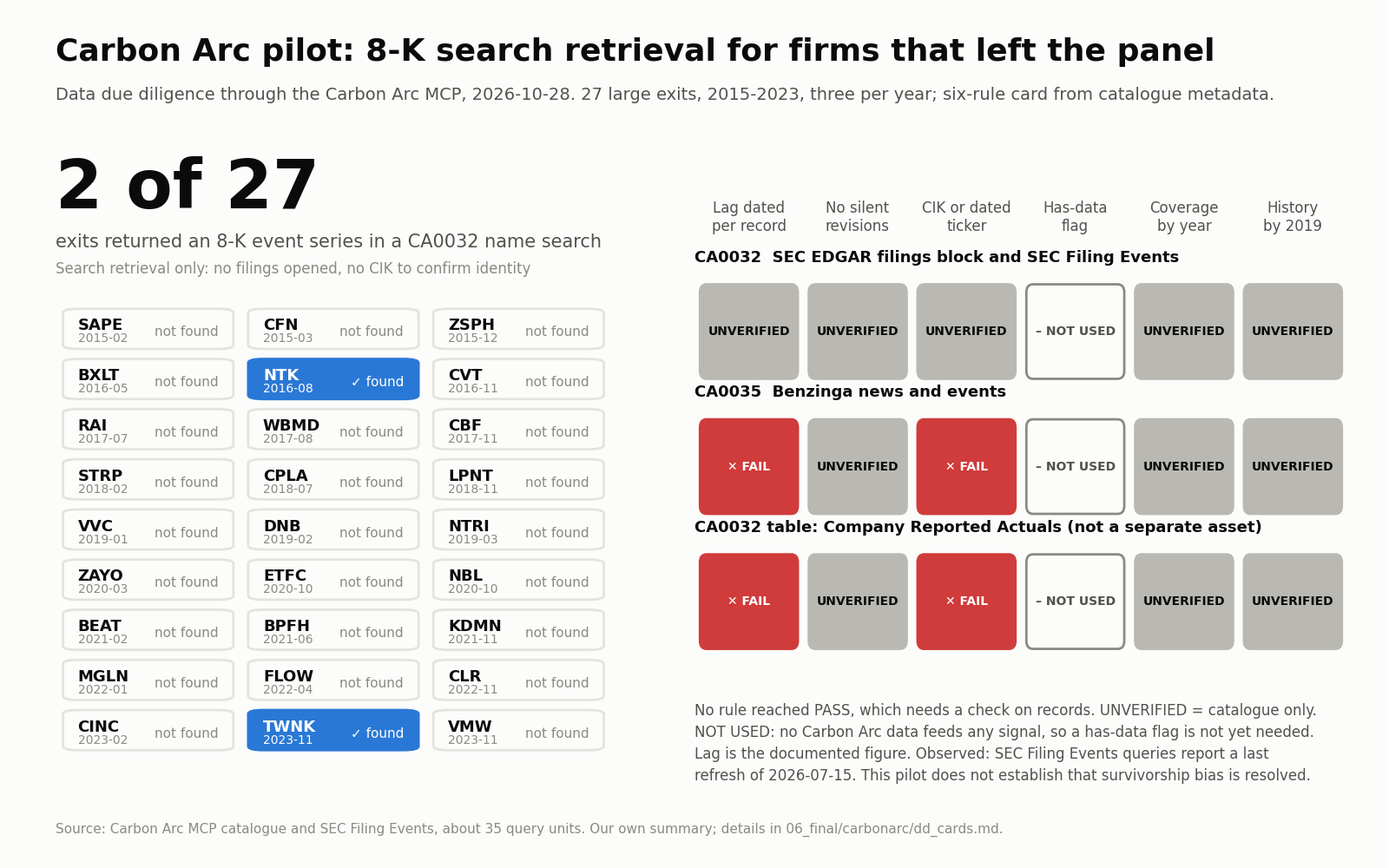
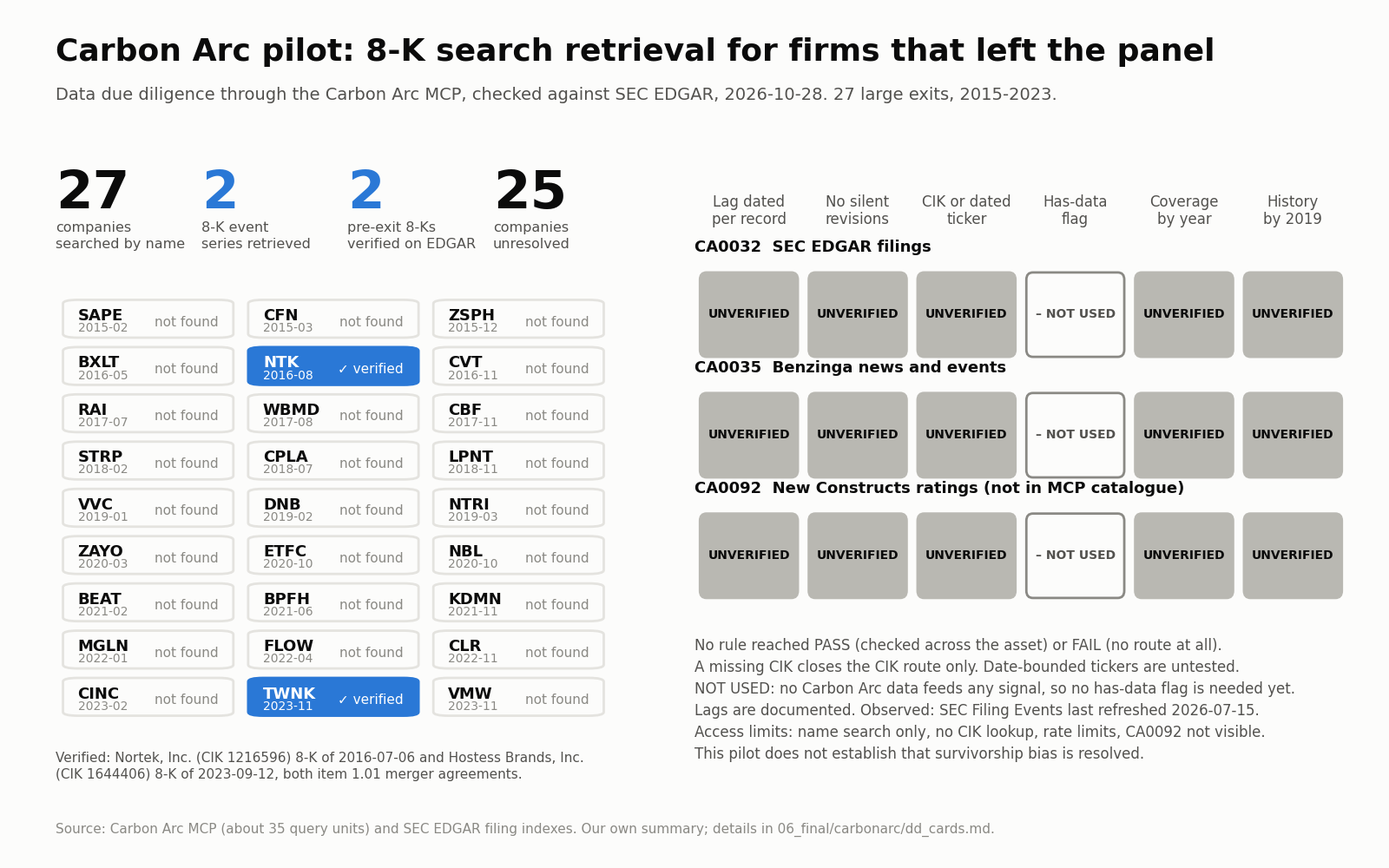
Verify the two Carbon Arc 8-K hits on EDGAR and add CA0092 to the cards
Both event series retrieved from CA0032 are now tied to a legal entity
on SEC EDGAR. Every Carbon Arc 8-K date falls on an EDGAR 8-K date of
Hostess Brands, Inc. (CIK 1644406, 107 of 107) or Nortek, Inc. (CIK
1216596, 131 of 131). Nortek's only gaps are six amendment-only dates.
One pre-exit 8-K per firm was opened. Both are item 1.01 merger
agreements: Hostess on 2023-09-12 with J. M. Smucker, and Nortek on
2016-07-06 with Melrose. Accessions, URLs and Carbon Arc provenance
are in dd_verified_filings.csv.

Summary counts: 27 searched, 2 series retrieved, 2 pre-exit filings
verified, 25 unresolved. The historical 13% stays as separate
background.

The six-rule card now covers three distinct recommended assets: CA0032,
CA0035 and CA0092 (New Constructs). CA0092 is not in the MCP catalogue,
so its ID and metadata are unconfirmed. Missing-CIK verdicts are now
UNVERIFIED: the CIK route is closed, but date-bounded ticker matching
is untested.

No Carbon Arc units spent this round. Seven public EDGAR requests, no
purchases.

diff --git a/06_final/carbonarc/dd_slide.py b/06_final/carbonarc/dd_slide.py
@@ -1,9 +1,9 @@
 """One slide for the Carbon Arc due-diligence pilot (dd_cards.md), as a 1600 x 1000 PNG.
 
-Left: the 27 large exits by exit month, marked by whether a name search of Carbon Arc's
-CA0032 returned an 8-K event series (search retrieval only). Right: the six-rule card for
-CA0032 (two tables) and CA0035. Values are typed in from dd_cards.md; nothing is queried
-here.
+Left: the 27 exited firms searched in Carbon Arc's CA0032 by name, the two event series
+retrieved, and the two pre-exit 8-Ks verified on SEC EDGAR. Right: the six-rule card for
+three distinct recommended assets (CA0032, CA0035, CA0092). Values are typed in from
+dd_cards.md and dd_verified_filings.csv; nothing is queried here.
 
     python 06_final/carbonarc/dd_slide.py
 """
@@ -17,9 +17,9 @@ from matplotlib.patches import FancyBboxPatch
 OUT = Path(__file__).with_name("dd_slide.png")
 
 SURFACE, INK, INK2, MUTED, GRID = "#fcfcfb", "#0b0b0b", "#52514e", "#8a8984", "#e4e3df"
-HIT, CRIT, UNK = "#2a78d6", "#d03b3b", "#b9b8b2"
+HIT, UNK = "#2a78d6", "#b9b8b2"
 
-EXITS = [  # (ticker, exit month, 8-K event series returned by name search)
+EXITS = [  # (ticker, exit month, event series retrieved and verified on EDGAR)
     ("SAPE", "2015-02", 0), ("CFN", "2015-03", 0), ("ZSPH", "2015-12", 0), ("BXLT", "2016-05", 0),
     ("NTK", "2016-08", 1), ("CVT", "2016-11", 0), ("RAI", "2017-07", 0), ("WBMD", "2017-08", 0),
     ("CBF", "2017-11", 0), ("STRP", "2018-02", 0), ("CPLA", "2018-07", 0), ("LPNT", "2018-11", 0),
@@ -28,19 +28,21 @@ EXITS = [  # (ticker, exit month, 8-K event series returned by name search)
     ("KDMN", "2021-11", 0), ("MGLN", "2022-01", 0), ("FLOW", "2022-04", 0), ("CLR", "2022-11", 0),
     ("CINC", "2023-02", 0), ("TWNK", "2023-11", 1), ("VMW", "2023-11", 0),
 ]
+FUNNEL = [("27", "companies\nsearched by name"), ("2", "8-K event\nseries retrieved"),
+          ("2", "pre-exit 8-Ks\nverified on EDGAR"), ("25", "companies\nunresolved")]
 
 RULES = ["Lag dated\nper record", "No silent\nrevisions", "CIK or dated\nticker", "Has-data\nflag",
          "Coverage\nby year", "History\nby 2019"]
-U, F, N = "UNVERIFIED", "FAIL", "NOT USED"
-ASSETS = [  # (name, verdict per rule); no rule reached PASS, which needs a check on records
-    ("CA0032  SEC EDGAR filings block and SEC Filing Events", [U, U, U, N, U, U]),
-    ("CA0035  Benzinga news and events", [F, U, F, N, U, U]),
-    ("CA0032 table: Company Reported Actuals (not a separate asset)", [F, U, F, N, U, U]),
+U, N = "UNVERIFIED", "NOT USED"
+ASSETS = [  # (name, verdict per rule); no rule reached PASS or FAIL
+    ("CA0032  SEC EDGAR filings", [U, U, U, N, U, U]),
+    ("CA0035  Benzinga news and events", [U, U, U, N, U, U]),
+    ("CA0092  New Constructs ratings (not in MCP catalogue)", [U, U, U, N, U, U]),
 ]
-FILL = {F: CRIT, U: UNK, N: SURFACE}
-EDGE = {F: CRIT, U: UNK, N: MUTED}
-TEXT = {F: "white", U: INK, N: INK2}
-LABEL = {F: "✕ FAIL", U: "UNVERIFIED", N: "– NOT USED"}
+FILL = {U: UNK, N: SURFACE}
+EDGE = {U: UNK, N: MUTED}
+TEXT = {U: INK, N: INK2}
+LABEL = {U: "UNVERIFIED", N: "– NOT USED"}
 
 
 def main():
@@ -49,34 +51,35 @@ def main():
 
     fig.text(0.04, 0.93, "Carbon Arc pilot: 8-K search retrieval for firms that left the panel",
              fontsize=26, weight="bold")
-    fig.text(0.04, 0.885, "Data due diligence through the Carbon Arc MCP, 2026-10-28. "
-             "27 large exits, 2015-2023, three per year; six-rule card from catalogue metadata.",
-             fontsize=14, color=INK2)
+    fig.text(0.04, 0.885, "Data due diligence through the Carbon Arc MCP, checked against SEC EDGAR, 2026-10-28. "
+             "27 large exits, 2015-2023.", fontsize=14, color=INK2)
 
-    # Left: hero number and the 27 exits
-    fig.text(0.04, 0.76, "2 of 27", fontsize=56, weight="bold")
-    fig.text(0.04, 0.715, "exits returned an 8-K event series in a CA0032 name search", fontsize=15, color=INK2)
-    fig.text(0.04, 0.685, "Search retrieval only: no filings opened, no CIK to confirm identity",
-             fontsize=12, color=MUTED)
+    # Left: funnel of counts
+    for k, (num, lab) in enumerate(FUNNEL):
+        x = 0.04 + k * 0.105
+        fig.text(x, 0.76, num, fontsize=44, weight="bold", color=HIT if k in (1, 2) else INK)
+        fig.text(x, 0.745, lab, fontsize=11.5, color=INK2, va="top", linespacing=1.3)
 
-    ax = fig.add_axes([0.04, 0.13, 0.40, 0.52], facecolor=SURFACE)
+    ax = fig.add_axes([0.04, 0.17, 0.40, 0.49], facecolor=SURFACE)
     n = len(EXITS)
     for i, (tic, month, hit) in enumerate(EXITS):
         col, row = i % 3, i // 3
         x, y = col * 1.0, -row * 1.0
         ax.add_patch(FancyBboxPatch((x + 0.04, y - 0.40), 0.92, 0.80, boxstyle="round,pad=0,rounding_size=0.08",
                                     facecolor=HIT if hit else SURFACE, edgecolor=HIT if hit else GRID, lw=2))
-        ink = "white" if hit else INK
-        ax.text(x + 0.12, y + 0.06, tic, fontsize=13, weight="bold", va="center", color=ink)
+        ax.text(x + 0.12, y + 0.06, tic, fontsize=13, weight="bold", va="center", color="white" if hit else INK)
         ax.text(x + 0.12, y - 0.20, month, fontsize=10, va="center", color="white" if hit else MUTED)
-        ax.text(x + 0.88, y - 0.07, "✓ found" if hit else "not found", fontsize=11, ha="right",
+        ax.text(x + 0.88, y - 0.07, "✓ verified" if hit else "not found", fontsize=11, ha="right",
                 va="center", color="white" if hit else MUTED)
     ax.set_xlim(0, 3)
     ax.set_ylim(-(n // 3) + 0.5, 0.5)
     ax.axis("off")
+    fig.text(0.04, 0.135, "Verified: Nortek, Inc. (CIK 1216596) 8-K of 2016-07-06 and Hostess Brands, Inc.\n"
+             "(CIK 1644406) 8-K of 2023-09-12, both item 1.01 merger agreements.",
+             fontsize=11, color=INK2, va="top", linespacing=1.4)
 
     # Right: six-rule card
-    ax2 = fig.add_axes([0.50, 0.24, 0.47, 0.56], facecolor=SURFACE)
+    ax2 = fig.add_axes([0.50, 0.30, 0.47, 0.50], facecolor=SURFACE)
     for j, rule in enumerate(RULES):
         ax2.text(j + 0.5, 3.15, rule, ha="center", va="bottom", fontsize=12, color=INK2)
     for i, (name, verdicts) in enumerate(ASSETS):
@@ -92,13 +95,15 @@ def main():
     ax2.axis("off")
 
     notes = [
-        "No rule reached PASS, which needs a check on records. UNVERIFIED = catalogue only.",
-        "NOT USED: no Carbon Arc data feeds any signal, so a has-data flag is not yet needed.",
-        "Lag is the documented figure. Observed: SEC Filing Events queries report a last",
-        "refresh of 2026-07-15. This pilot does not establish that survivorship bias is resolved.",
+        "No rule reached PASS (checked across the asset) or FAIL (no route at all).",
+        "A missing CIK closes the CIK route only. Date-bounded tickers are untested.",
+        "NOT USED: no Carbon Arc data feeds any signal, so no has-data flag is needed yet.",
+        "Lags are documented. Observed: SEC Filing Events last refreshed 2026-07-15.",
+        "Access limits: name search only, no CIK lookup, rate limits, CA0092 not visible.",
+        "This pilot does not establish that survivorship bias is resolved.",
     ]
-    fig.text(0.50, 0.19, "\n".join(notes), fontsize=12, color=INK2, va="top", linespacing=1.5)
-    fig.text(0.04, 0.04, "Source: Carbon Arc MCP catalogue and SEC Filing Events, about 35 query units. "
+    fig.text(0.50, 0.265, "\n".join(notes), fontsize=12, color=INK2, va="top", linespacing=1.5)
+    fig.text(0.04, 0.04, "Source: Carbon Arc MCP (about 35 query units) and SEC EDGAR filing indexes. "
              "Our own summary; details in 06_final/carbonarc/dd_cards.md.", fontsize=11, color=MUTED)
 
     fig.savefig(OUT, dpi=100, facecolor=SURFACE)

diff --git a/06_final/carbonarc/dd_cards.md b/06_final/carbonarc/dd_cards.md
@@ -8,48 +8,60 @@ Nothing here feeds the model.
 This file is our own summary. It contains no text copied from Carbon Arc, its catalogue
 or the filings behind it.
 
+## Summary
+
+| Step | Count |
+|---|---|
+| Companies searched in CA0032 by name | 27 |
+| 8-K event series retrieved | 2 (Nortek, Hostess Brands) |
+| Retrieved series with legal entity confirmed on SEC EDGAR | 2 |
+| Pre-exit 8-Ks verified as documents on EDGAR (accession and URL recorded) | 2 |
+| Pre-exit 8-K dates in the final 12 months matched to the EDGAR filing index | 21 (10 Nortek, 11 Hostess) |
+| Companies unresolved | 25 |
+
+This pilot does not establish that survivorship bias is resolved.
+
 ## Method
 
 - **Which asset is CA0032.** The MCP catalogue does not index assets by CA code. A lookup
-  of "CA0032" and "CA0035" returns unrelated tearsheets. We take CA0035 to be Benzinga
-  ("Financial News & Data"), as `f09_altdata.py` already does. We take CA0032 to be the SEC
-  EDGAR tearsheet ("Financial Filing Forms"). The 8-K query results name that tearsheet
-  as their data asset, which supports the mapping but does not prove it.
+  of "CA0032" or "CA0035" returns unrelated tearsheets. Our source for the codes is the
+  team's finals handoff note, which summarises the organisers' instructions: CA0032 is
+  EDGAR keyed by CIK from 2012, and CA0035 is Benzinga event tags from 2011 with a T+1 lag
+  and weekly delivery. We matched each code to a catalogue tearsheet on those attributes.
+  - "Financial Filing Forms" matches CA0032: provider SEC Edgar, CIK key, aggregated
+    history from 2012. The 8-K query results also name this tearsheet as their data asset.
+  - "Financial News & Data" matches CA0035: provider Benzinga, history from 2011, T+1,
+    weekly.
 - **Card 1 route.** The prompt's document question (`text_to_insight`) cannot answer it.
-  We sent the first three firms (Sapient, CareFusion, ZS Pharma) and got no answer. The
-  document archive holds 10-K and 10-Q text only, and for CareFusion it surfaced the
-  acquirer's (Cardinal Health) filings instead. We switched to the structured route. Some
-  companies have an "SEC Form 8-K Filing" event series under the "SEC Filing Events"
-  insight, and a framework query returns every event date in it. We searched the event
-  list for all 27 firms by name, cross-checked the company entity list, and pulled dates
-  where a series came back.
-- **Rate limits.** The event search allows about one call every two minutes. After the
-  first eight single-name searches, we searched the last 16 firms four names per query.
-  A control query with two known hits and two known misses returned both hits in its top
-  ten. That supports the batched searches, but a batched miss is weaker evidence than a
-  single-name miss.
-- **Cost.** About 35 units of the 3,000-unit cap: two framework queries at about 15 units
-  each. The failed document question cost nothing. Discovery calls are free. The day
-  started at 4,508 of 20,000 daily units used, from earlier work. The dollar balance was
-  not touched.
-- **Cards 2-4.** Catalogue metadata only: tearsheets and data dictionaries. We opened no
-  data rows for these cards apart from the 8-K event dates from card 1.
+  We sent the first three firms and got no answer. The document archive holds 10-K and
+  10-Q text only, and for CareFusion it surfaced the acquirer's (Cardinal Health) filings.
+  We switched to the structured route. Some companies have an "SEC Form 8-K Filing" event
+  series under the "SEC Filing Events" insight, and a framework query returns every event
+  date in it. We searched the event list for all 27 firms by name, cross-checked the
+  company entity list, and pulled dates where a series came back.
+- **Rate limits.** The event search allows about one call every two minutes. After eight
+  single-name searches, we searched the last 16 firms four names per query. A control
+  query with two known hits and two known misses returned both hits in its top ten. A
+  batched miss is still weaker evidence than a single-name miss.
+- **Verification on EDGAR.** For each retrieved series we downloaded the company's filing
+  index from SEC EDGAR, a free public source. We then matched Carbon Arc's event dates to
+  each candidate CIK's 8-K dates. We opened one pre-exit 8-K per company and recorded its
+  accession number and URL in `dd_verified_filings.csv`. We made seven requests to EDGAR
+  in all and bought nothing.
+- **Cost.** About 35 Carbon Arc units of the 3,000-unit cap, all from two framework queries
+  in the first round. This round used only free catalogue and search calls. The day
+  started at 4,508 of 20,000 daily units used, from earlier work.
+- **Cards 2-4.** Catalogue metadata only, plus the card 1 evidence for CA0032.
 
 ## Card 1: 8-K search retrieval for 27 exited firms
 
-**Search retrieval only: 2 of 27 firms returned an 8-K event series (Nortek, Hostess
-Brands).** This is not a verified coverage rate. For the two hits we did not open any
-filing. We also could not confirm the company identity, because the event rows carry no
-CIK. For the other 25, the miss means our name searches found no series. It does not
-show that Carbon Arc lacks their filings.
-
-| Exit month | Ticker | Company | Search result in CA0032 | 8-K events in final 12 months | Last 8-K event before exit month | M&A 8-K (items 1.01/2.01) |
+| Exit month | Ticker | Company | Search result in CA0032 | 8-K dates in final 12 months | Last 8-K before exit month | M&A 8-K (items 1.01/2.01) |
 |---|---|---|---|---|---|---|
 | 2015-02 | SAPE | Sapient | Not found | - | - | - |
 | 2015-03 | CFN | CareFusion | Not found | - | - | - |
 | 2015-12 | ZSPH | ZS Pharma | Not found | - | - | - |
 | 2016-05 | BXLT | Baxalta | Not found | - | - | - |
-| 2016-08 | NTK | Nortek | Series found (Carbon Arc company 66399); identity unverified | 10 | 2016-07-06 | Not available: no item codes |
+| 2016-08 | NTK | Nortek | Series found; verified as Nortek, Inc., CIK 1216596 | 10, all on EDGAR | 2016-07-06, verified | Yes: 2016-07-06, item 1.01, merger agreement with Melrose Industries |
 | 2016-11 | CVT | Cvent | Not found | - | - | - |
 | 2017-07 | RAI | Reynolds American | Not found | - | - | - |
 | 2017-08 | WBMD | WebMD Health | Not found | - | - | - |
@@ -70,31 +82,48 @@ show that Carbon Arc lacks their filings.
 | 2022-04 | FLOW | SPX Flow | Not found (batched search) | - | - | - |
 | 2022-11 | CLR | Continental Resources | Not found (batched search) | - | - | - |
 | 2023-02 | CINC | CinCor Pharma | Not found (batched search) | - | - | - |
-| 2023-11 | TWNK | Hostess Brands | Series found (Carbon Arc company 26594); identity unverified | 11 | 2023-09-12 | Not available: no item codes |
+| 2023-11 | TWNK | Hostess Brands | Series found; verified as Hostess Brands, Inc., CIK 1644406 | 11, all on EDGAR | 2023-09-12, verified | Yes: 2023-09-12, item 1.01, merger agreement with J. M. Smucker |
 | 2023-11 | VMW | VMware | Not found | - | - | - |
 
-What the search shows:
+### The two verified hits
 
-1. **Most exits did not resolve by name.** The company entity search found only Nortek,
-   Zayo and Hostess Brands. For Dun & Bradstreet it found only the 2020 relisted holding
-   company. Large names such as Reynolds American and VMware returned nothing.
-2. **The two hits return long event histories.** Nortek's event dates reach back to 2003.
-   Hostess has 9 to 21 events in every full year from 2016 to 2022. We did not check
-   these against EDGAR, so we cannot say the series are complete.
-3. **Two things the prompt asked for are missing from the event rows.** There are no
-   item codes, so a merger 8-K cannot be told apart from any other. There is no CIK, so
-   matches rest on Carbon Arc's company ID and name.
-4. **Some delisted firms do have series.** The event search also returned series for
-   Pharmacyclics, XO Group and InterDent, all no longer listed.
+| | Hostess Brands | Nortek |
+|---|---|---|
+| Legal entity on EDGAR | Hostess Brands, Inc., CIK 1644406, formerly Gores Holdings, Inc. | Nortek, Inc., CIK 1216596 |
+| Pre-exit 8-K opened | Filed 2023-09-12, accession 0001193125-23-233053 | Filed 2016-07-06, accession 0001047469-16-014186 |
+| What it reports | Item 1.01: merger agreement with J. M. Smucker | Item 1.01: merger agreement with Melrose Industries, plus items 5.02, 5.03, 7.01 and 9.01 |
+| Carbon Arc provenance | Company 26594, event series 7622, SEC Filing Events insight, Financial Filing Forms tearsheet, last refresh 2026-07-15 | Company 66399, event series 10677, same insight and tearsheet, last refresh 2026-07-15 |
+| Carbon Arc 8-K dates found on this CIK's EDGAR 8-K dates | 107 of 107 | 131 of 131 |
+| EDGAR 8-K dates missing from Carbon Arc | None | 6, all amendment-only (8-K/A) dates |
 
-The SEC EDGAR data dictionary documents CIK, filing date and form type on every row of
-the raw filings block. A bulk extract keyed by CIK, joined through our CIK-permno bridge,
-might recover filings that name search cannot. The MCP cannot test that, and it would be
-a separate purchase.
+What the verification shows:
+
+1. **The identities hold.** Every Carbon Arc 8-K date for the two hits falls on an EDGAR
+   8-K date of one CIK. Nortek has an older registrant, Nortek Holdings (CIK 72423), and
+   11 Carbon Arc dates from 2003-2004 also appear in its index. But all 131 dates appear
+   in CIK 1216596's index, so we assign the series to it.
+2. **Events are dates, not filings.** Carbon Arc keeps one event per filing date. Hostess
+   filed 110 8-Ks on 107 dates, and Nortek filed 152 8-Ks and 8-K/As on 137 dates. Counts
+   in the table above are distinct dates.
+3. **Item codes exist upstream but not in the MCP rows.** EDGAR's index carries item codes,
+   which identify both merger 8-Ks. The Carbon Arc event rows do not.
+
+### Unresolved cases and access limits
+
+- **25 companies are unresolved.** 23 returned no series in name search, Zayo has a company
+  entity with no filing events, and Dun & Bradstreet resolves only to its 2020 successor.
+  For these firms, a miss means our name searches found nothing. It does not show that
+  Carbon Arc lacks their filings.
+- **The MCP offers no CIK search.** Entities resolve by present-day name, and the event
+  rows expose no CIK. So there is no MCP route from a CIK we hold to Carbon Arc's records.
+- **Rate limits forced batched searches** for 16 of the 25 misses.
+- **The raw EDGAR block** documents CIK, filing date and form type on every row. A bulk
+  extract keyed by CIK might resolve the 25. The MCP cannot test that, and it would be a
+  purchase.
 
 **Background, not comparable with the pilot above.** In round one, 13% of later-exiting
 firms had any 8-K in the supplied file. The organisers' sheet lists 326 of 330 large exits
-as missing. Those figures measure the supplied file over a different set of firms with a
+as missing. Those figures measure the supplied file, over a different set of firms, with a
 different method.
 
 ## Cards 2-4: the six-rule card
@@ -105,53 +134,52 @@ date-bounded ticker; "not covered" distinguishable from "nothing happened"; cove
 
 How to read the verdicts:
 
-- **PASS** would mean we checked the rule on actual records. No rule reached PASS in this
-  pilot.
-- **FAIL** means the data dictionary itself shows the rule cannot be met, for example a
-  missing key or date column.
-- **UNVERIFIED** means only the catalogue speaks to the rule, or we did not inspect it.
-- **NOT USED** applies to rule 4 only. It means no Carbon Arc data feeds any signal, so
-  telling "no event" from "not covered" does not yet matter.
+- **PASS** would mean we checked the rule on records across the asset. None reached PASS.
+- **FAIL** would mean the evidence shows the rule cannot be met by any route. None reached
+  FAIL. A missing CIK, for example, closes the CIK route but leaves date-bounded ticker
+  matching open, so that is UNVERIFIED.
+- **UNVERIFIED** means only documentation speaks to the rule, or our record checks cover
+  too few firms to generalise.
+- **NOT USED** applies to rule 4 only. No Carbon Arc data feeds any signal, so telling "no
+  event" from "not covered" does not yet matter. The check: `06_final/run_all.sh` never
+  runs `f09_altdata.py`, and no module imports it. It is the only code that would read a
+  Carbon Arc asset. The handoff note also says never to trade a "has data" flag.
 
-The rule 4 check: `06_final/run_all.sh` never runs `f09_altdata.py`, and no module
-imports it. It is the only code that would read a Carbon Arc asset. So data availability
-is not used as a trading signal. Rule 4 must be re-checked before any of these assets
-feeds a feature.
+**Assets checked.** Three distinct assets from the organisers' recommended set, as named
+in the handoff note: CA0032, CA0035 and CA0092 (New Constructs ratings). CA0092 is the
+asset added this round. It is not in the MCP catalogue under any of five searches, by
+name, by content and by entity. So we could not confirm its ID or read its tearsheet, and
+its column rests only on the handoff note. The "Company Reported Actuals" table from last
+round is listed inside the CA0032 tearsheet, so it no longer counts as an asset here.
 
-**Assets checked.** The third column is not an independent asset. The "Company Reported
-Actuals" table (Carbon Arc topic 89) is listed inside the CA0032 SEC EDGAR tearsheet. It
-is also published on its own as the "Financial Reporting" tearsheet, and neither shows a
-CA asset ID. We treat it as another table of CA0032. So this pilot covers two assets:
-CA0032, with two of its tables, and CA0035.
-
-| Rule | CA0032 filings block and SEC Filing Events | CA0035 Benzinga news and events | CA0032 table: Company Reported Actuals |
+| Rule | CA0032 SEC EDGAR filings | CA0035 Benzinga news and events | CA0092 New Constructs ratings |
 |---|---|---|---|
-| 1. Lag | **UNVERIFIED.** Documented: a T+1 lag, and filing date plus EDGAR acceptance time on each row. Observed: the 8-K event rows we pulled carry one date each and no acceptance time. | **FAIL.** Documented: a T+1 lag, but the dictionary shows one date per record, so event and publication dates cannot be told apart. | **FAIL.** Documented: a T+90 lag on the "Financial Reporting" tearsheet. Records carry only the period start and end, with no filing date. |
-| 2. Vintage | **UNVERIFIED.** Documented: each fact is tied to a filing's accession number and date, with a flag for figures repeated in later filings. We opened no fact rows. | **UNVERIFIED.** The dictionary has no version or as-of column. We opened no rows. | **UNVERIFIED.** The dictionary has no version or as-of column. We opened no rows. |
-| 3. Ticker mapping | **UNVERIFIED.** Documented: CIK on every row, plus a current-only ticker. Observed: the MCP event rows expose neither, so our matches used Carbon Arc company IDs. | **FAIL.** The dictionary shows Carbon Arc ticker and company IDs plus a Bloomberg ticker, with no CIK and no date bounds. | **FAIL.** The dictionary shows the same keys as Benzinga, with no CIK. |
-| 4. Has-data flag | **NOT USED.** No coverage field is documented. Not a failure, because no signal reads this data. | **NOT USED.** Same as CA0032. | **NOT USED.** Same as CA0032. |
-| 5. Coverage by year | **UNVERIFIED.** Catalogue totals only: about 17,000 filers, 7,500 tickers and 500,000 filings. | **UNVERIFIED.** Catalogue totals only: about 3,000 stocks. | **UNVERIFIED.** Catalogue totals only: 850 companies. |
-| 6. Real start date | **UNVERIFIED.** Catalogue: 2009 for the filings block. Observed: event dates back to 2003, for two companies only. No row counts, and no filings opened. | **UNVERIFIED.** Catalogue: 2011. | **UNVERIFIED.** Catalogue: 2008. |
+| 1. Lag | **UNVERIFIED.** Documented: T+1, with filing date and EDGAR acceptance time on each row. Observed: for two firms, every 8-K event date equals an EDGAR filing date. The rows carry no acceptance time and no event date. | **UNVERIFIED.** Documented: T+1, but one date per record, so per-record publication dating is unavailable. A fixed T+1 lag would have to be assumed and tested. | **UNVERIFIED.** Handoff note only: T+2. No tearsheet found. |
+| 2. Vintage | **UNVERIFIED.** Documented: facts are tied to a filing's accession number and date, with a flag for repeated figures. We opened no fact rows. | **UNVERIFIED.** The dictionary has no version or as-of column. No rows opened. | **UNVERIFIED.** No documentation reachable. |
+| 3. Ticker mapping | **UNVERIFIED.** Documented: CIK on every raw row. Observed: the MCP event rows expose no CIK. We confirmed CIKs for two firms ourselves through EDGAR. | **UNVERIFIED.** No CIK, so the CIK route is unavailable. The dictionary shows a current Bloomberg ticker with no date bounds. Matching would need our own date-bounded ticker map, which we have not tested. | **UNVERIFIED.** No documentation reachable. |
+| 4. Has-data flag | **NOT USED.** No coverage field documented. Not a failure, because no signal reads this data. | **NOT USED.** Same reason. | **NOT USED.** Same reason. |
+| 5. Coverage by year | **UNVERIFIED.** Catalogue totals only: about 17,000 filers, 7,500 tickers and 500,000 filings. Exited firms: 2 of 27 series retrieved by name. | **UNVERIFIED.** Catalogue totals only: about 3,000 stocks. | **UNVERIFIED.** No documentation reachable. |
+| 6. Real start date | **UNVERIFIED.** Catalogue: 2009 for the filings block, 2012 aggregated. Observed: Nortek's events from 2003 all match EDGAR, but that is one firm, not a row count. | **UNVERIFIED.** Catalogue: 2011. | **UNVERIFIED.** Handoff note only: 2016. |
 
-**Documented lag and observed freshness are different things.** The one-day lag above is
-what the catalogue declares. What we observed: the two framework queries on the SEC Filing
+**Documented lag and observed freshness are different things.** The lags above are what
+the documentation declares. What we observed: the two framework queries on the SEC Filing
 Events insight, for Nortek and Hostess, each reported a last data refresh of 2026-07-15.
-The SEC EDGAR tearsheet shows the same date. That date applies to that insight and
-tearsheet as served by the MCP. We did not check freshness for Benzinga, for the Company
-Reported Actuals table, or for the raw filings block.
+The Financial Filing Forms tearsheet shows the same date. That date applies to that
+insight and tearsheet as served by the MCP. We did not check freshness for Benzinga, for
+New Constructs, or for the raw filings block.
 
-**Carbon Arc's own load dates are not point-in-time.** The dictionary's sample values
-show the EDGAR block loaded in one full backfill on 2026-10-13. Carbon Arc's receipt date
-therefore cannot date first availability. The EDGAR filing date would have to serve that
-purpose, and we have not verified it on rows.
+**Carbon Arc's own load dates are not point-in-time.** The dictionary's sample values show
+the EDGAR block loaded in one full backfill on 2026-10-13, so Carbon Arc's receipt date
+cannot date first availability. For the two verified firms the event date equals the
+EDGAR filing date, which can serve that purpose.
 
 ## What we did and did not act on
 
 - **No change to the model or the 8-K features.** This pilot does not establish that
   survivorship bias is resolved. The bias stays documented as a limitation.
-- **No asset is cleared for new features.** Nothing reached PASS. Benzinga and the
-  Company Reported Actuals table fail on lag dating and CIK mapping in their own data
-  dictionaries.
-- **Next step, not done:** price a bulk EDGAR extract keyed by CIK. Then check the 27
-  firms on it filing by filing, with CIK-verified identities. That would turn this
-  search pilot into a coverage measurement.
+- **No asset is cleared for new features.** Nothing reached PASS.
+- **Next step, not done:** for the 25 unresolved firms, take CIKs from EDGAR and look for a
+  Carbon Arc route keyed by CIK. That could be a bulk EDGAR extract, priced but not bought,
+  or a support request for CIK lookup through the MCP. Then verify filing by filing as
+  for the two firms here. A CA0092 card needs its tearsheet, which means asking Carbon Arc
+  whether our account can see it.
